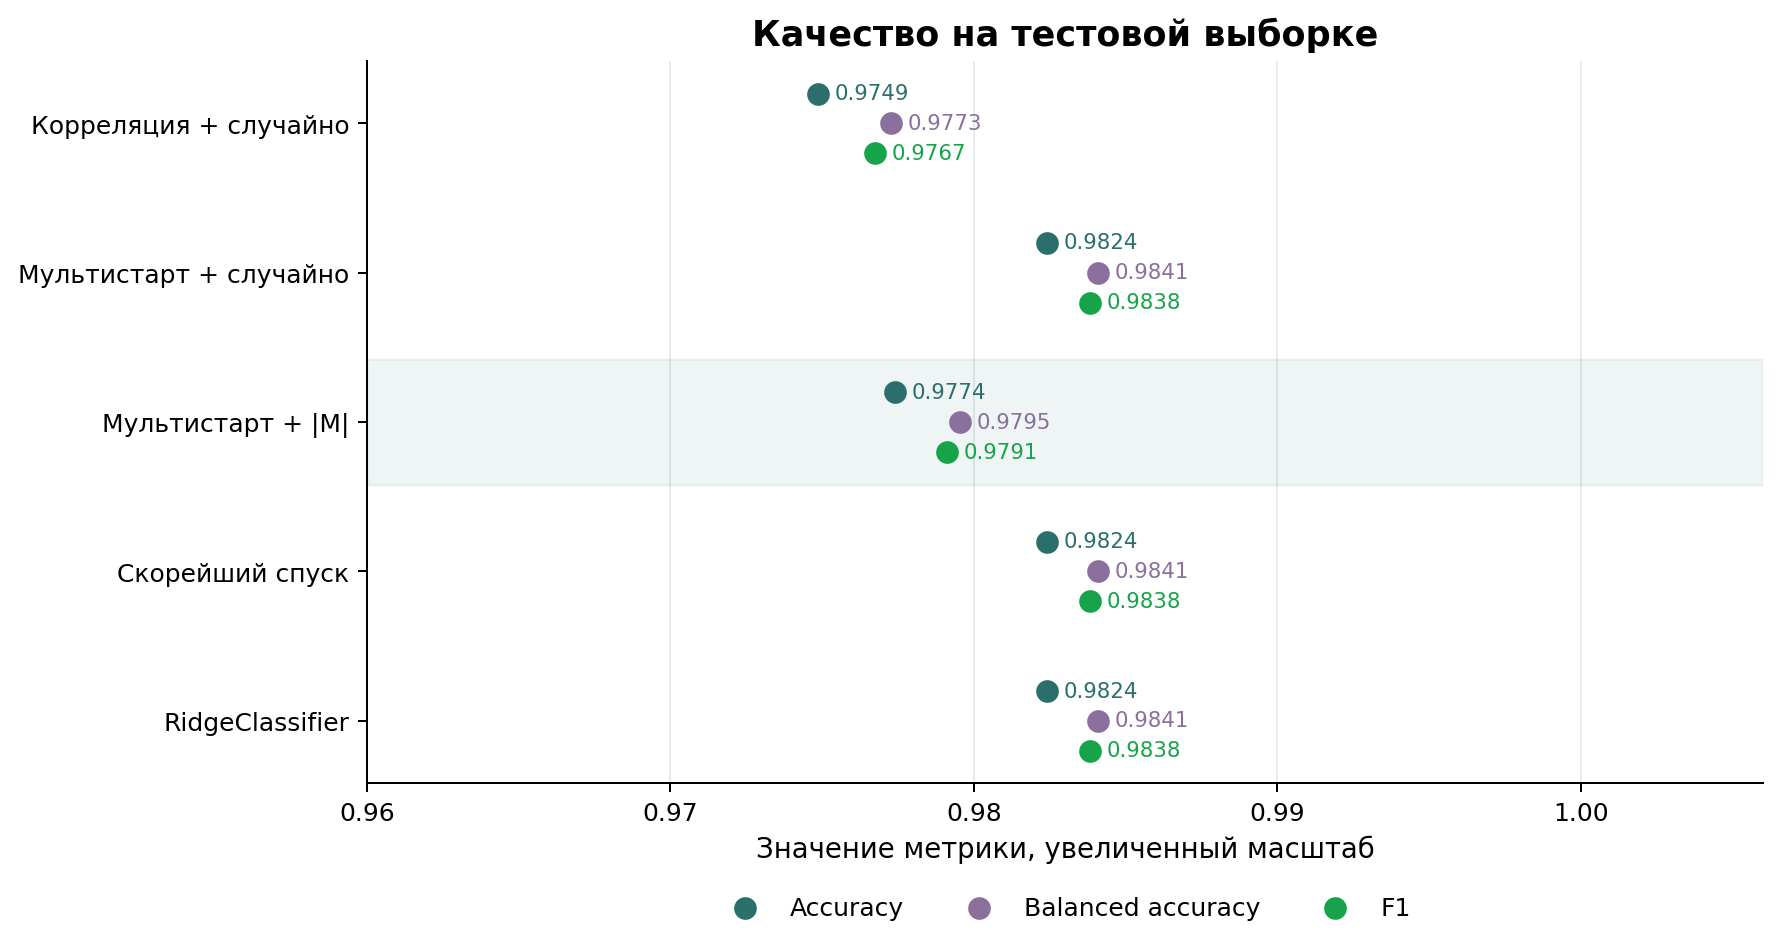
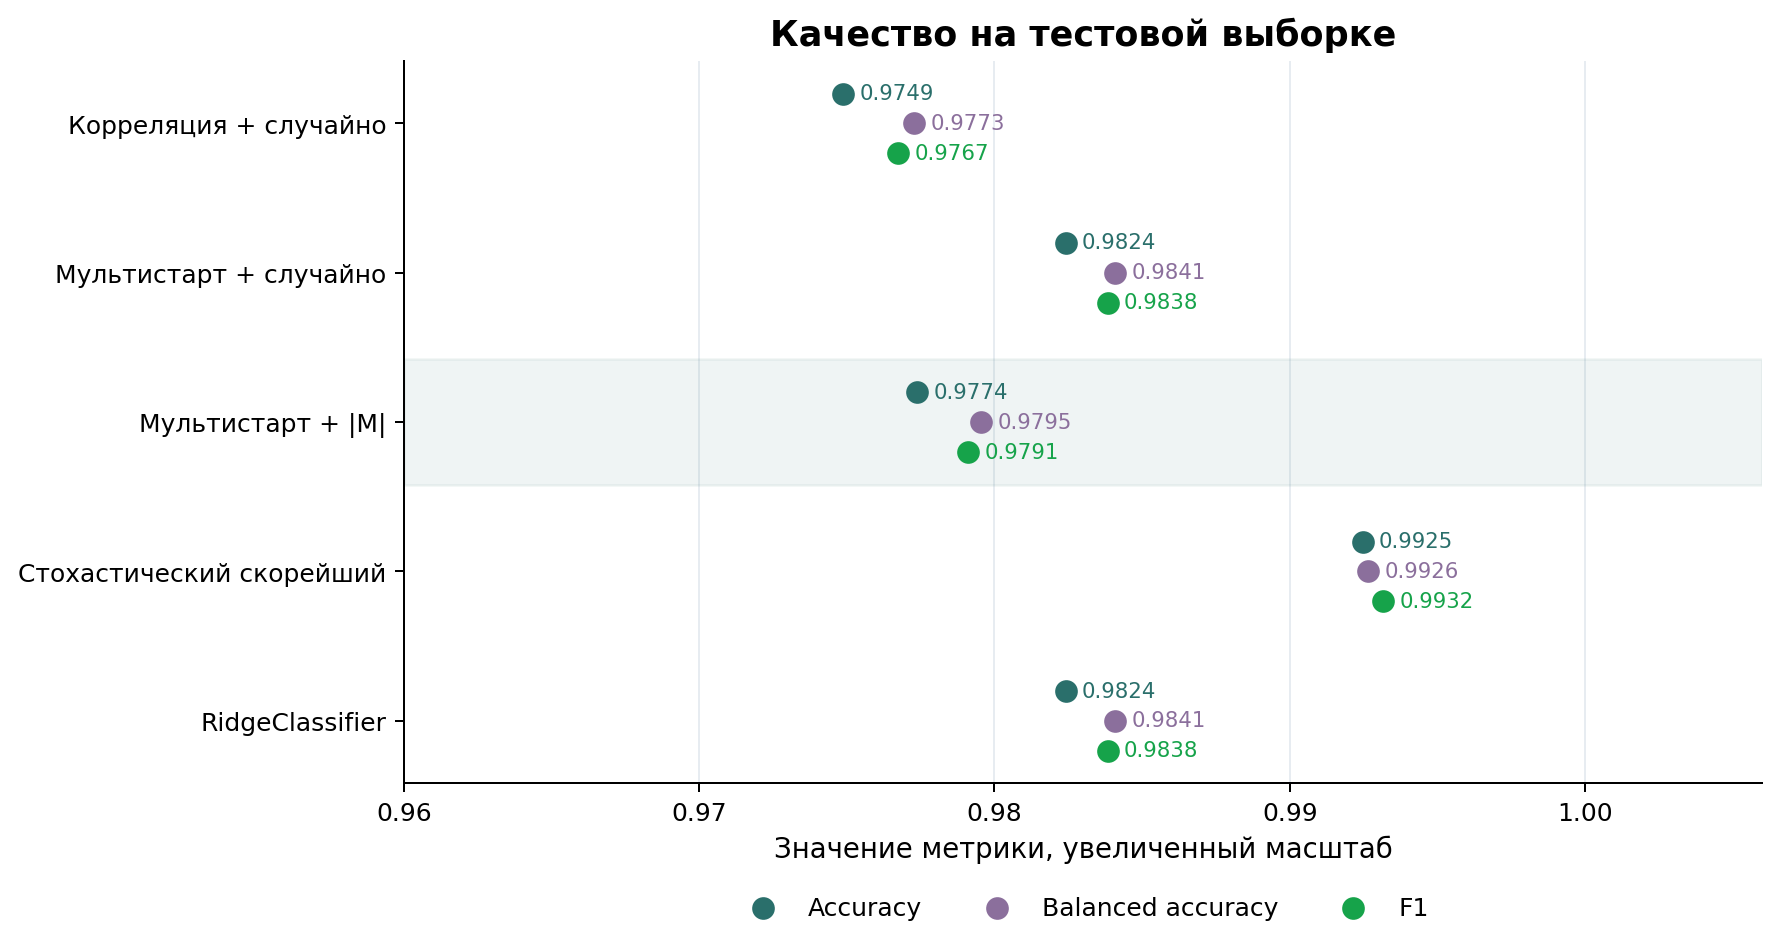
исправлен стохастический скорейший спуск

diff --git a/students/grebenshchikov-da/lab1/source/linear_classifier.py b/students/grebenshchikov-da/lab1/source/linear_classifier.py
@@ -49,20 +49,20 @@ def object_gradient(
     return loss_gradient + l2 * weights * regularization_mask(len(weights))
 
 
-def full_gradient(
-    X: np.ndarray,
-    y: np.ndarray,
-    weights: np.ndarray,
+def stochastic_steepest_step(
+    x_with_bias: np.ndarray,
+    gradient: np.ndarray,
     l2: float,
-) -> np.ndarray:
-    """Усредняет градиенты всей выборки для скорейшего спуска."""
-    X_bias = add_bias(X)
-    current_margins = y * (X_bias @ weights)
-    gradient = np.mean(
-        -2.0 * (1.0 - current_margins)[:, None] * y[:, None] * X_bias,
-        axis=0,
+) -> float:
+    """Находит лучший шаг для текущего объекта и квадратичного loss"""
+    mask = regularization_mask(len(gradient))
+    denominator = (
+        2.0 * np.dot(x_with_bias, gradient) ** 2
+        + l2 * np.sum((mask * gradient) ** 2)
     )
-    return gradient + l2 * weights * regularization_mask(len(weights))
+    if denominator <= 1e-12:
+        return 0.0
+    return float(np.dot(gradient, gradient) / denominator)
 
 
 def correlation_initialization(X: np.ndarray, y: np.ndarray) -> np.ndarray:
@@ -99,9 +99,15 @@ class LinearClassifier:
         momentum: float = 0.9,
         quality_rate: float = 0.02,
         presentation: str = "random",
+        step_mode: str = "constant",
         random_state: int = 42,
     ) -> "LinearClassifier":
         """Обучает модель методом SGD с momentum и рекуррентной оценкой Q."""
+        if step_mode not in {"constant", "steepest"}:
+            raise ValueError("step_mode должен быть constant или steepest")
+        if step_mode == "steepest" and momentum != 0.0:
+            raise ValueError("Скорейший шаг используется без momentum")
+
         rng = np.random.default_rng(random_state)
         X_bias = add_bias(X)
         self.weights = initial_weights.astype(float).copy()
@@ -126,9 +132,18 @@ class LinearClassifier:
                     self.weights,
                     self.l2,
                 )
-                # Momentum сохраняет часть предыдущего направления движения.
-                velocity = momentum * velocity + gradient
-                self.weights -= learning_rate * velocity
+                if step_mode == "steepest":
+                    # Шаг минимизирует loss текущего объекта вдоль антиградиента
+                    step = stochastic_steepest_step(
+                        X_bias[index],
+                        gradient,
+                        self.l2,
+                    )
+                    self.weights -= step * gradient
+                else:
+                    # Momentum сохраняет часть предыдущего направления движения.
+                    velocity = momentum * velocity + gradient
+                    self.weights -= learning_rate * velocity
 
                 current_margin = y[index] * np.dot(X_bias[index], self.weights)
                 current_loss = float(quadratic_loss(current_margin))
@@ -137,45 +152,6 @@ class LinearClassifier:
 
             self.history["risk"].append(empirical_risk(X, y, self.weights, self.l2))
             self.history["quality"].append(quality)
-
-        return self
-
-    def fit_steepest(
-        self,
-        X: np.ndarray,
-        y: np.ndarray,
-        initial_weights: np.ndarray,
-        iterations: int = 1000,
-        tolerance: float = 1e-8,
-    ) -> "LinearClassifier":
-        """Делает шаги по полному антиградиенту с оптимальной длиной шага."""
-        X_bias = add_bias(X)
-        self.weights = initial_weights.astype(float).copy()
-        self.initial_weights = self.weights.copy()
-        self.history = {"risk": [], "quality": []}
-        initial_risk = empirical_risk(X, y, self.weights, self.l2)
-        self.history["risk"].append(initial_risk)
-        self.history["quality"].append(initial_risk)
-
-        # Для квадратичного функционала кривизна задаётся постоянной матрицей H.
-        mask = np.diag(regularization_mask(X_bias.shape[1]))
-        hessian = 2.0 * (X_bias.T @ X_bias) / len(X_bias) + self.l2 * mask
-
-        for _ in range(iterations):
-            gradient = full_gradient(X, y, self.weights, self.l2)
-            if np.linalg.norm(gradient) < tolerance:
-                break
-
-            denominator = float(gradient @ hessian @ gradient)
-            if denominator <= 0:
-                break
-
-            # Эта формула даёт лучший шаг вдоль текущего антиградиента.
-            step = float((gradient @ gradient) / denominator)
-            self.weights -= step * gradient
-            risk = empirical_risk(X, y, self.weights, self.l2)
-            self.history["risk"].append(risk)
-            self.history["quality"].append(risk)
 
         return self
 

diff --git a/students/grebenshchikov-da/lab1/source/run.py b/students/grebenshchikov-da/lab1/source/run.py
@@ -150,10 +150,16 @@ def train_models(data, learning_rate: float, base_model: LinearClassifier):
             random_state=RANDOM_STATE,
             **common,
         ),
-        "Скорейший градиентный спуск": LinearClassifier(l2=L2).fit_steepest(
+        "Стохастический скорейший спуск": LinearClassifier(l2=L2).fit_sgd(
             data.X_train,
             data.y_train,
             initial_weights=correlation_weights,
+            epochs=80,
+            momentum=0.0,
+            quality_rate=0.02,
+            presentation="random",
+            step_mode="steepest",
+            random_state=RANDOM_STATE,
         ),
     }
 
@@ -433,7 +439,7 @@ def plot_metric_comparison(metrics: pd.DataFrame, best_name: str) -> None:
         "Корреляция + случайный порядок": "Корреляция + случайно",
         "Мультистарт + случайный порядок": "Мультистарт + случайно",
         "Мультистарт + порядок по отступу": "Мультистарт + |M|",
-        "Скорейший градиентный спуск": "Скорейший спуск",
+        "Стохастический скорейший спуск": "Стохастический скорейший",
         "RidgeClassifier": "RidgeClassifier",
     }
     metric_labels = {

diff --git a/students/grebenshchikov-da/lab1/README.md b/students/grebenshchikov-da/lab1/README.md
@@ -119,7 +119,7 @@ Accuracy меняется скачками и не показывает напр
 \nabla L_i = -2(1-M_i)y_i x_i + \lambda w
 \]
 
-Веса изменяются по антиградиенту, то есть против направления роста ошибки. `object_gradient` работает с одним автомобилем для SGD, `full_gradient` использует весь train для скорейшего спуска. L2 добавляет `λw`, но не штрафует свободный коэффициент `b`.
+Веса изменяются по антиградиенту, то есть против направления роста ошибки. `object_gradient` работает с одним автомобилем во всех стохастических вариантах. L2 добавляет `λw`, но не штрафует свободный коэффициент `b`.
 
 ### Мультиколлинеарность
 
@@ -127,7 +127,7 @@ Accuracy меняется скачками и не показывает напр
 
 ## Обучение
 
-Общие параметры эксперимента: 80 эпох, momentum `0.9`, L2-коэффициент `0.01` и коэффициент рекуррентной оценки `0.02`. Для мультистарта выполняется пять запусков. Шаг SGD выбирается по валидационной выборке.
+Общие параметры эксперимента: 80 эпох, momentum `0.9`, L2-коэффициент `0.01` и коэффициент рекуррентной оценки `0.02`. Для мультистарта выполняется пять запусков. Шаг обычного SGD выбирается по валидационной выборке. Стохастический скорейший спуск сам рассчитывает шаг для каждого объекта и работает без momentum.
 
 ### Стохастический градиентный спуск с инерцией
 
@@ -169,15 +169,31 @@ w_j = \frac{\langle x_j,y\rangle}{\langle x_j,x_j\rangle}
 
 Перед эпохой объекты сортируются по `|M|`. Сначала обрабатываются автомобили около границы, в которых модель уверена меньше всего.
 
-### Скорейший градиентный спуск
+### Стохастический скорейший градиентный спуск
 
-В скорейшем спуске используется полный градиент по всей обучающей выборке. Направление задаётся антиградиентом, а длина шага автоматически рассчитывается для текущего квадратичного функционала:
+Метод остаётся стохастическим: на каждой итерации выбирается один автомобиль и вычисляется его градиент `g_i`. Отличие от обычного SGD состоит в автоматическом расчёте шага:
 
-\[
-\eta_t = \frac{g_t^Tg_t}{g_t^THg_t}
-\]
+```text
+eta_i = (g_i.T @ g_i) /
+        (2 * (x_i.T @ g_i)^2 + lambda * ||mask * g_i||^2)
+```
 
-`g` является полным градиентом, `H` описывает кривизну функционала. Метод движется по `-g` и на каждом шаге использует весь train. Один шаг дороже SGD, но направление точнее.
+`x_i` содержит признаки текущего объекта и единицу для свободного коэффициента. `mask` исключает свободный коэффициент из L2. Полученный шаг минимизирует регуляризованный квадратичный loss текущего объекта вдоль направления `-g_i`.
+
+Ключевая часть реализации:
+
+```python
+gradient = object_gradient(
+    X_bias[index],
+    int(y[index]),
+    self.weights,
+    self.l2,
+)
+step = stochastic_steepest_step(X_bias[index], gradient, self.l2)
+self.weights -= step * gradient
+```
+
+Минимизация выполняется для одного объекта, поэтому общий риск всей выборки может колебаться. Momentum отключён, чтобы направление обновления совпадало с текущим антиградиентом.
 
 ## Результаты
 
@@ -198,7 +214,7 @@ w_j = \frac{\langle x_j,y\rangle}{\langle x_j,x_j\rangle}
 | Корреляционная инициализация, случайный порядок | 0.9749 | 0.9773 | 0.9767 |
 | Мультистарт, случайный порядок | 0.9824 | 0.9841 | 0.9838 |
 | Мультистарт, порядок по отступу | 0.9774 | 0.9795 | 0.9791 |
-| Скорейший градиентный спуск | 0.9824 | 0.9841 | 0.9838 |
+| Стохастический скорейший спуск | 0.9925 | 0.9926 | 0.9932 |
 | `RidgeClassifier` | 0.9824 | 0.9841 | 0.9838 |
 
 ![Распределение классов](images/class_balance.png?v=3)
@@ -221,7 +237,7 @@ w_j = \frac{\langle x_j,y\rangle}{\langle x_j,x_j\rangle}
 
 После обучения ошибок на обучающей выборке стало 17 вместо 489. Большинство объектов перешло в область положительных отступов. Линии `M = 0` и `M = 1` показывают границу ошибки и минимум квадратичного loss.
 
-![Сравнение метрик](images/metrics.png?v=3)
+![Сравнение метрик](images/metrics.png?v=4)
 
 Подсветкой отмечен метод, выбранный по валидационной выборке. Более высокий результат других методов на тесте не используется для повторного выбора модели.
 
